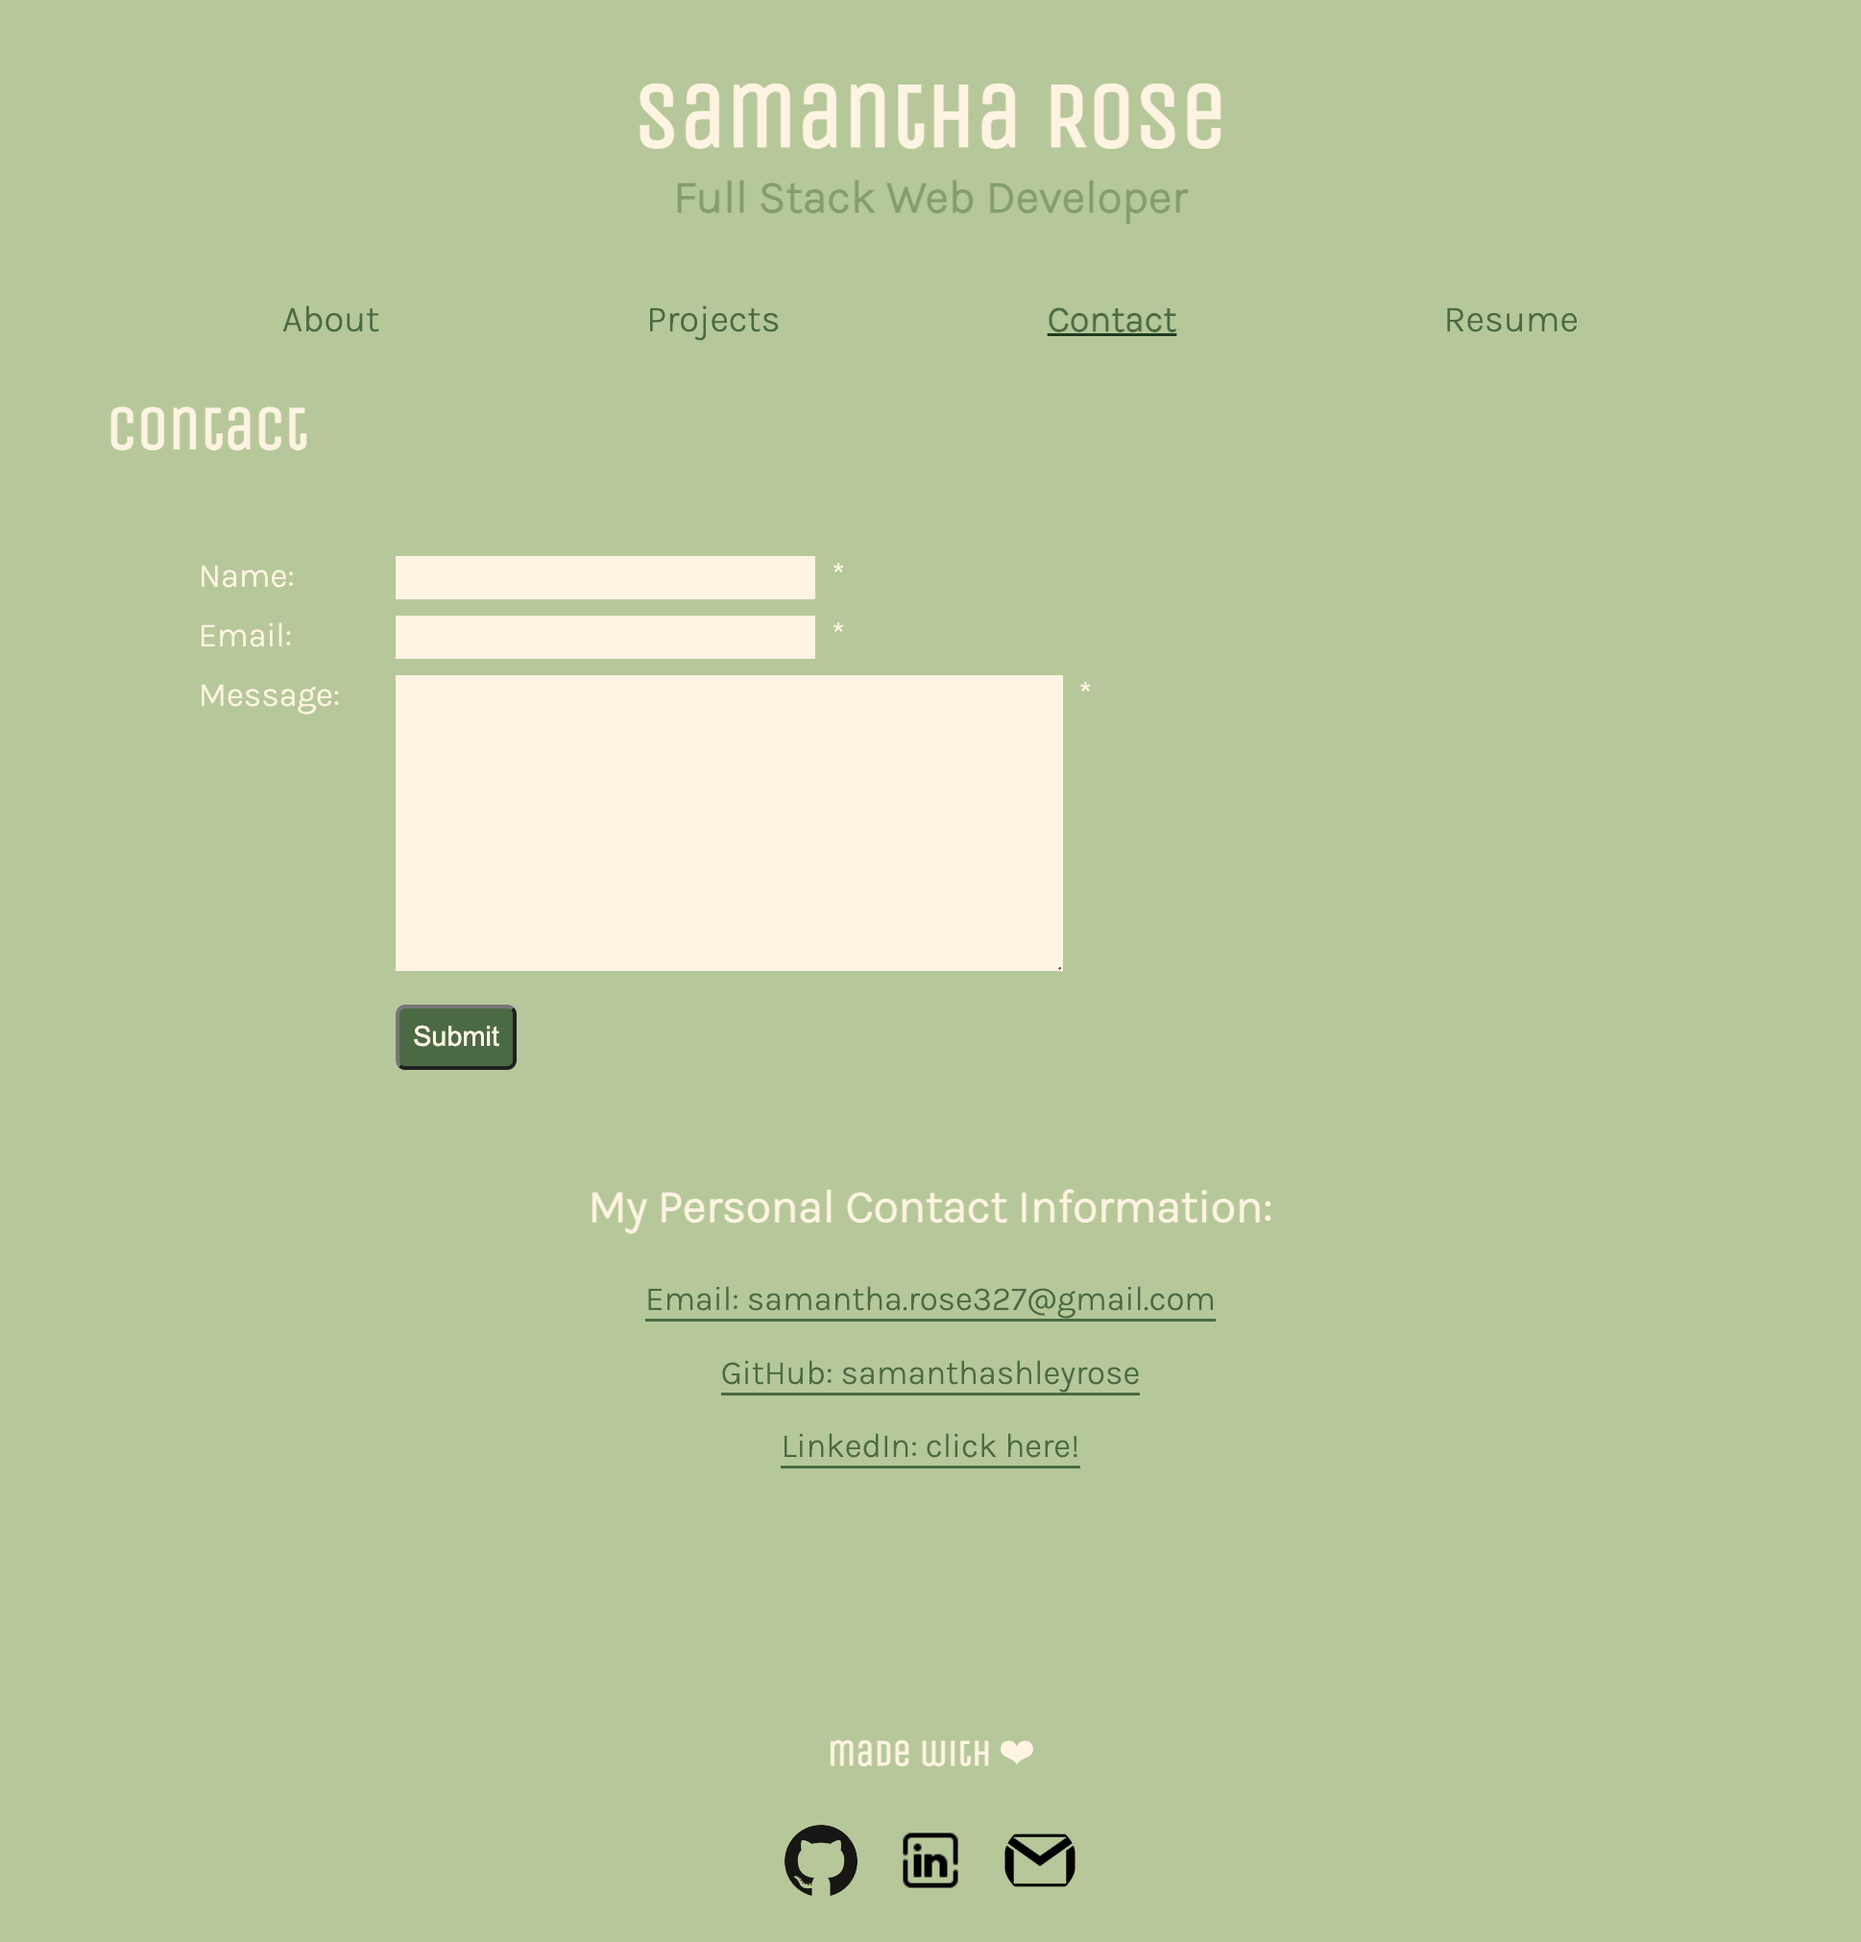
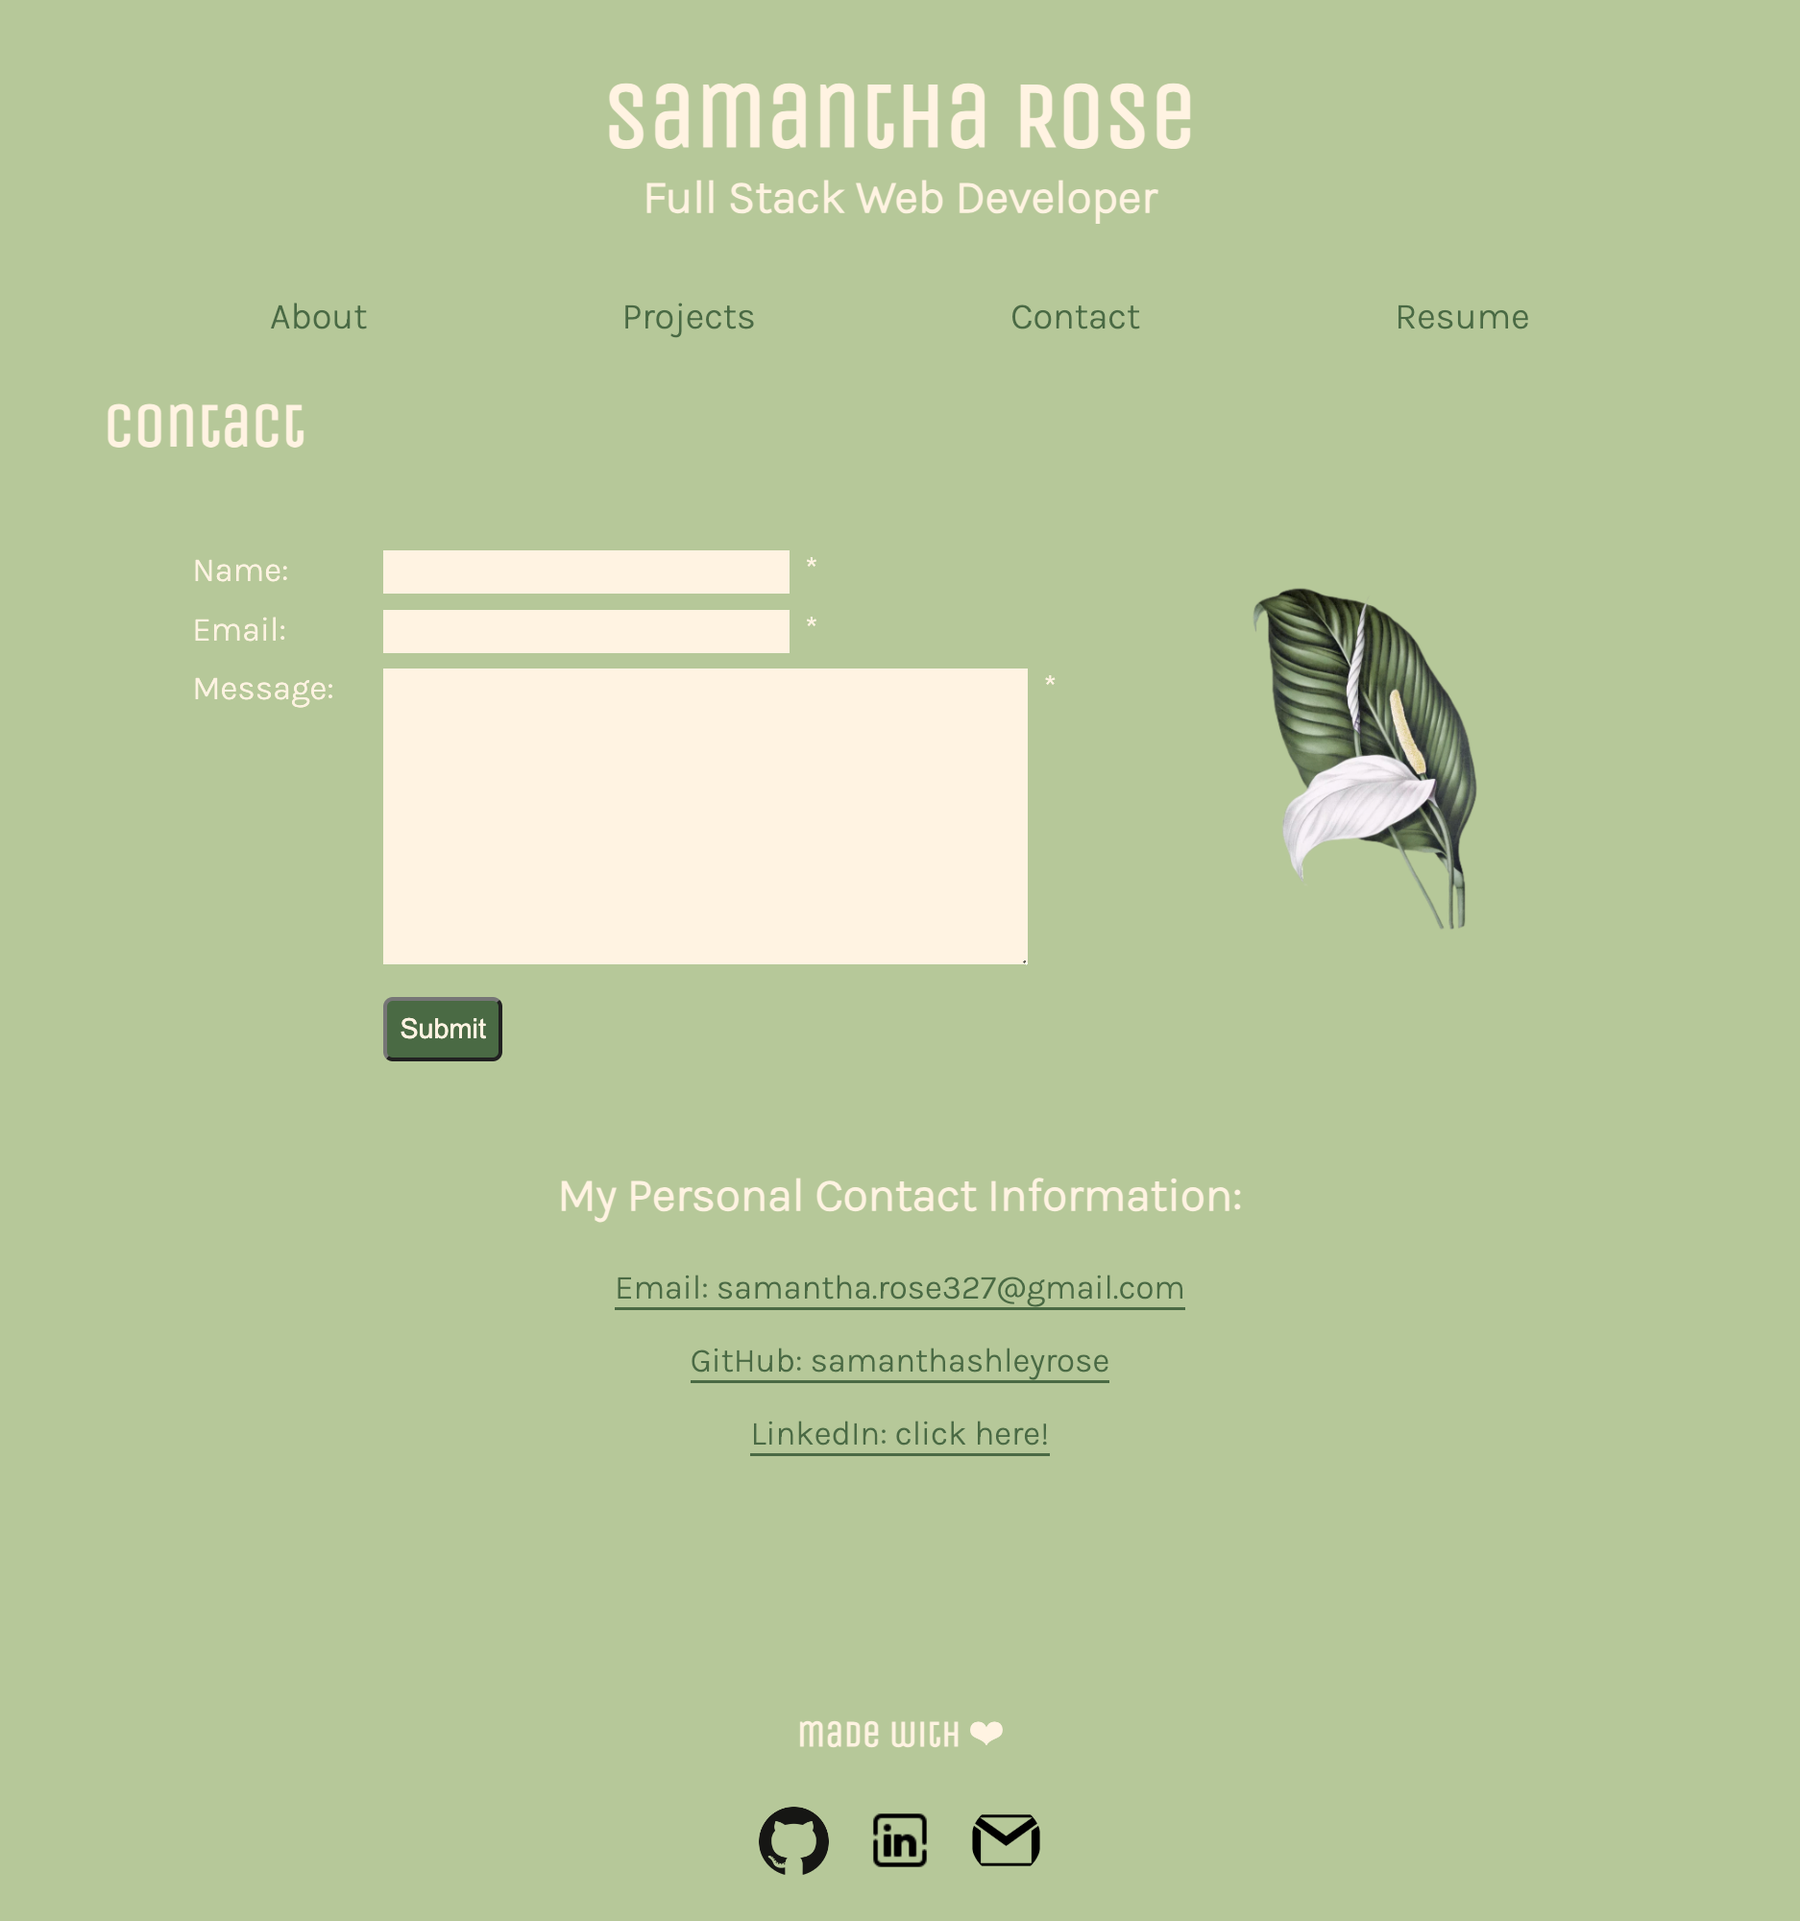
Added peace lily img to contact page and updated sc in README

diff --git a/src/main.css b/src/main.css
@@ -15,7 +15,7 @@ main {
 }
 
 #subtitle {
-    color: rgba(125, 151, 102, 0.874);
+    color: rgb(255, 244, 226);
     margin-top: 0%;
     margin-bottom: 4%;
 }
@@ -59,6 +59,17 @@ h2 {
 }
 
 /* ABOUT */
+.page-header {
+    display: inline-flex;
+}
+
+#peace-lily {
+    border: none;
+    height: 10%;
+    width: 20%;
+
+}
+
 .top-row-about {
     display: inline-flex;
     justify-content: space-between;
@@ -186,6 +197,15 @@ img {
 }
 
 /* CONTACT */
+#contact-page {
+    background-image: url(../public/assets/imgs/peace_lily.png);
+    background-blend-mode: lighten;
+    background-repeat: no-repeat;
+    background-size: 30%;
+    background-position-x: 85%;
+    background-position-y: 10%;
+}
+
 .contact-form {
     display: block;
     font-family: Karla, sans-serif;
@@ -420,6 +440,10 @@ a {
         font-size: .7rem;
     }
 
+    #contact-page {
+        background-image: none;
+    }
+
     #name-label,
     #email-label,
     #message-label {
@@ -524,6 +548,10 @@ a {
         font-size: .7rem;
     }
 
+    #contact-page {
+        background-image: none;
+    }
+
     #name-label,
     #email-label,
     #message-label {
@@ -606,6 +634,10 @@ a {
         font-size: .8rem;
     }
 
+    #contact-page {
+        background-image: none;
+    }
+
     #name-label,
     #email-label,
     #message-label {
@@ -685,6 +717,12 @@ a {
         font-size: .9rem;
     }
 
+    #contact-page {
+        background-size: 35%;
+        background-position-x: 90%;
+        background-position-y: 20%;
+    }
+
     #name-label,
     #email-label,
     #message-label {
@@ -747,6 +785,11 @@ a {
         font-size: 1rem;
     }
 
+    #contact-page {
+        background-position-x: 90%;
+        background-position-y: 20%;
+    }
+
     #name-label,
     #email-label,
     #message-label {
@@ -786,6 +829,11 @@ a {
     #pfp {
         width: 28%;
     }
+
+    #contact-page {
+        background-size: 25%;
+        background-position-y: 20%;
+    }
 }
 
 /* XXL */
@@ -807,6 +855,11 @@ a {
         width: 30%;
         margin-top: 2%;
     }
+
+    #contact-page {
+        background-size: 25%;
+        background-position-y: 15%;
+    }
 }
 
 /* XXL */
@@ -827,6 +880,12 @@ a {
     #pfp {
         width: 30%;
         margin-top: 2%;
+    }
+
+    #contact-page {
+        background-size: 20%;
+        background-position-x: 80%;
+        background-position-y: 15%;
     }
 }
 
@@ -855,6 +914,12 @@ a {
         width: 30%;
         margin-top: 2%;
     }
+
+    #contact-page {
+        background-size: 20%;
+        background-position-x: 80%;
+        background-position-y: 15%;
+    }
 }
 
 /* XXL */
@@ -881,6 +946,12 @@ a {
     #pfp {
         width: 30%;
         margin-top: 2%;
+    }
+
+    #contact-page {
+        background-size: 20%;
+        background-position-x: 80%;
+        background-position-y: 15%;
     }
 }
 
@@ -909,6 +980,11 @@ a {
         width: 30%;
         margin-top: 2%;
     }
+    #contact-page {
+        background-size: 20%;
+        background-position-x: 80%;
+        background-position-y: 15%;
+    }
 }
 
 /* XXL */
@@ -935,5 +1011,10 @@ a {
     #pfp {
         width: 30%;
         margin-top: 2%;
+    }
+    #contact-page {
+        background-size: 18%;
+        background-position-x: 80%;
+        background-position-y: 15%;
     }
 }

diff --git a/src/pages/Contact.jsx b/src/pages/Contact.jsx
@@ -49,7 +49,7 @@ function ContactForm() {
   };
 
   return (
-    <div>
+    <div id='contact-page'>
       <h2>Contact</h2>
       <form onSubmit={handleSubmit} className='contact-form'>
         <div id='name-div'>
